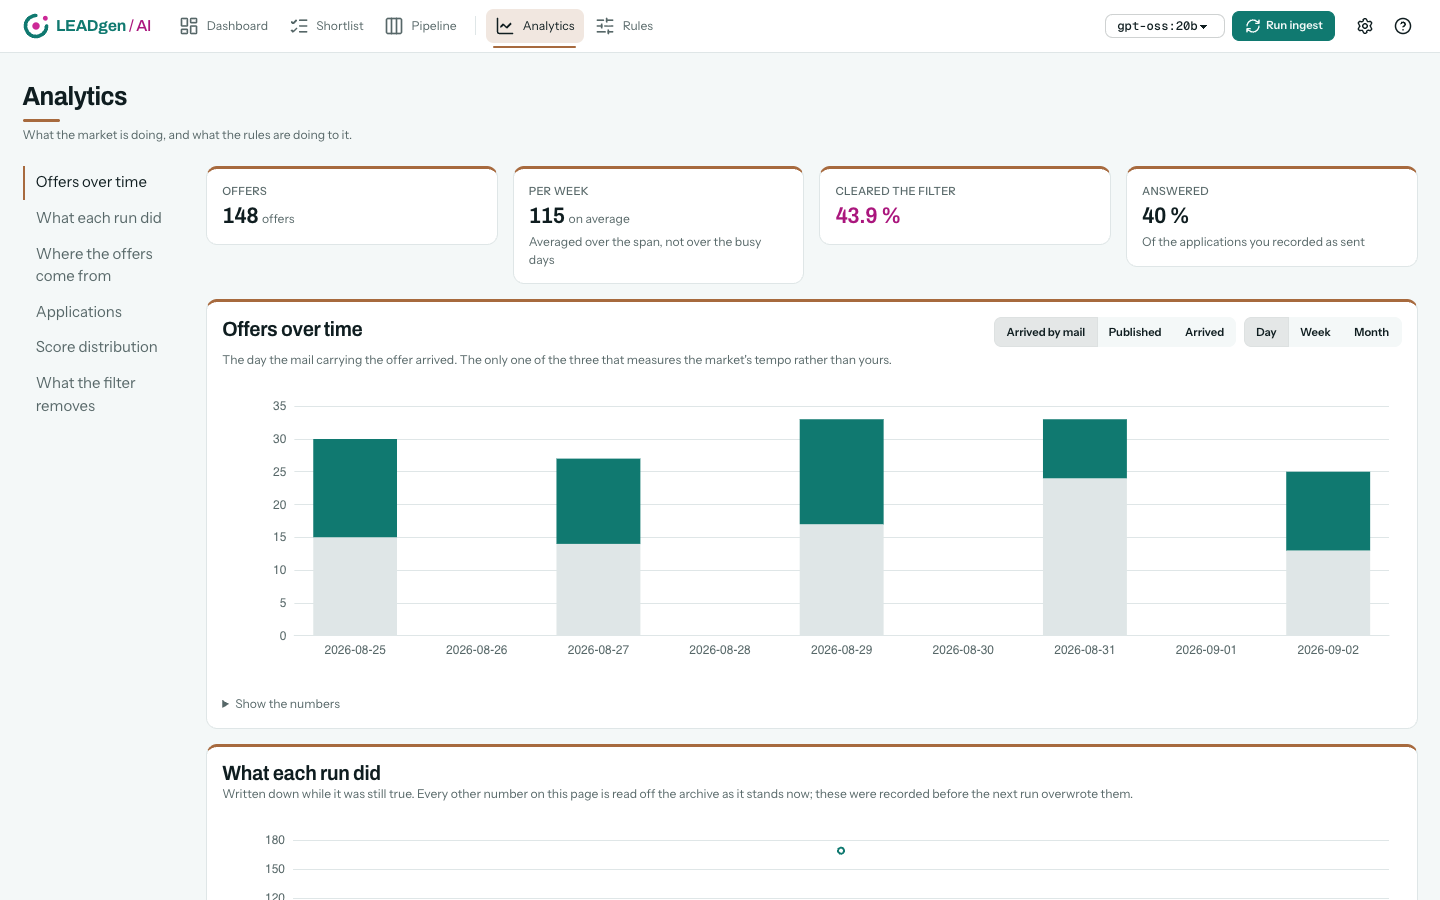
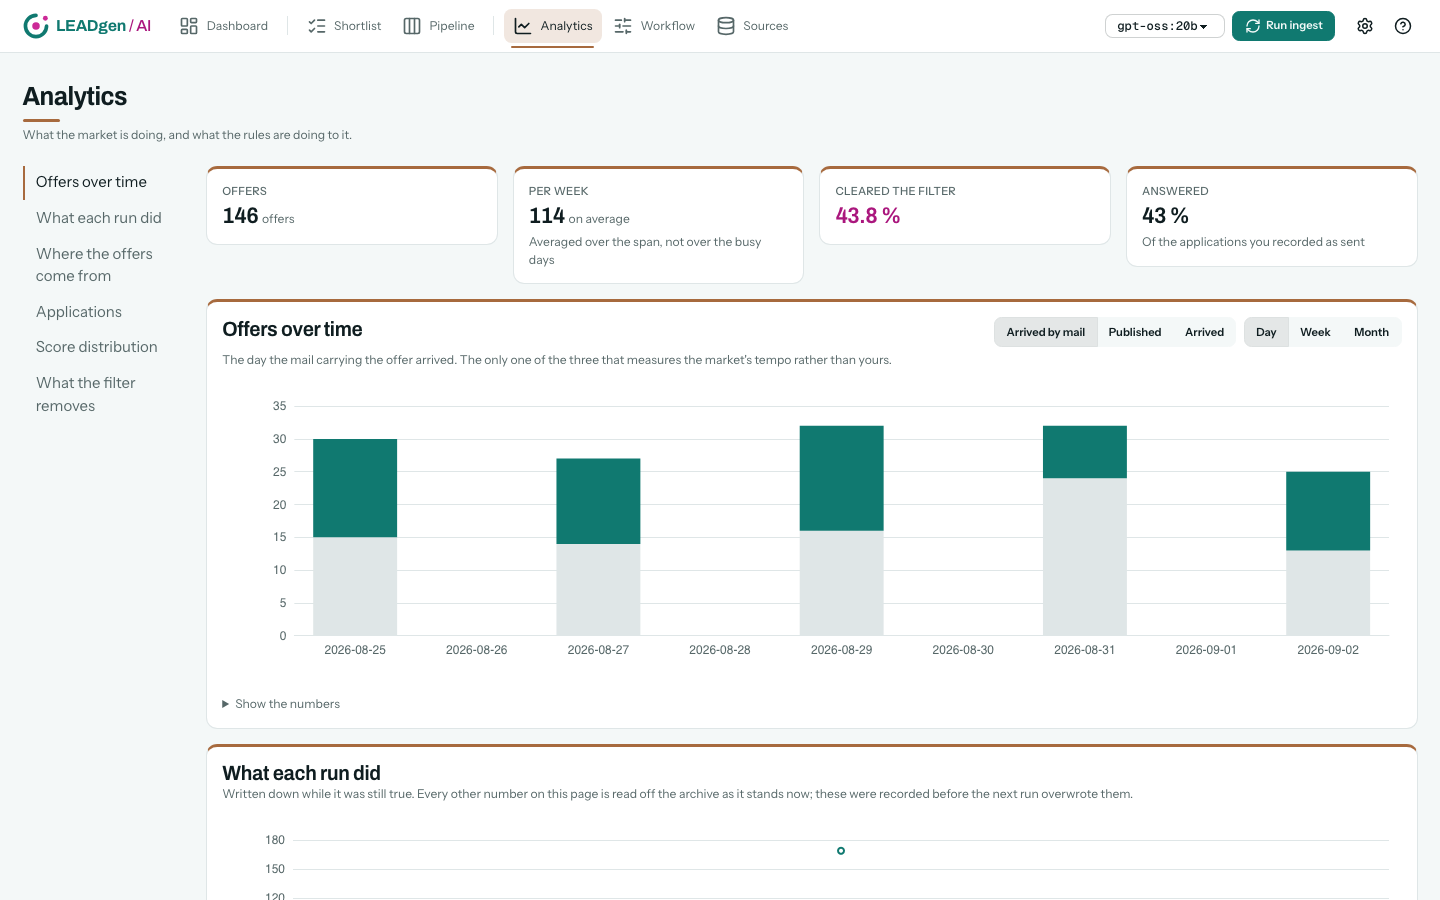
Retake the README screenshots from the current design
The eight images under docs/screenshots still showed the screens before the renovation:
"Rules" in the navigation, the rule list instead of the workflow graph, the old dashboard.
They are retaken from the English demo stack at 1440x900, and `bun run docs:shots` now does
that in one command, refusing any instance whose sources are not the demo's, the same guard
the help shots use. The README row for that screen is called Workflow, as the navigation is.

diff --git a/frontend/tools/capture-docs-shots.ts b/frontend/tools/capture-docs-shots.ts
@@ -1,0 +1,141 @@
+/**
+ * Retakes the screenshots the root README and the guides render, from the English demo stack.
+ *
+ *   bun run docs:shots                                   # every shot, from :14201
+ *   DOCS_SHOTS_URL=http://… bun run docs:shots
+ *   DOCS_SHOTS_ONLY=dashboard-light,rules-dark bun run docs:shots   # just these
+ *
+ * Writes `docs/screenshots/<id>.png` at 1440×900, the size every image there has. The theme is
+ * part of the id and chosen per screen, not per run: the README picks whichever of the two shows a
+ * screen best (docs/README.md).
+ *
+ * **Only ever against the demo stack, and the English one.** A screenshot is published with the
+ * repository, so this reads the instance's configured sources first and stops unless they are
+ * exactly the demo's. English because the README is English: German adverts under English labels
+ * read as a broken translation, which is why the help shots take English from :14201 too. Start it
+ * as `capture-help-shots.ts` describes.
+ */
+import {resolve} from 'node:path';
+import {chromium, type Page} from 'playwright';
+
+const BASE = process.env['DOCS_SHOTS_URL'] ?? 'http://127.0.0.1:14201';
+const OUT = resolve(import.meta.dir, '../../docs/screenshots');
+const VIEWPORT = {width: 1440, height: 900};
+const ONLY = (process.env['DOCS_SHOTS_ONLY'] ?? '').split(',').map((id) => id.trim()).filter((id) => id !== '');
+
+/** What the demo's `sources.yaml` declares, and all it declares. */
+const DEMO_SOURCES = ['demo-newsletter', 'manual-inbox'];
+
+interface Shot {
+    readonly theme: 'light' | 'dark';
+    /** The path to open, given the offer the shortlist puts first. */
+    readonly route: (top: number) => string;
+    /** What has to be on screen before the picture is taken, beyond the route. */
+    readonly prepare?: (page: Page) => Promise<void>;
+}
+
+/**
+ * Scrolls the element to the top of whatever pane scrolls it, clear of the sticky header: without
+ * the margin its own heading lands under the header and the picture starts mid-sentence.
+ */
+async function scrollTo(page: Page, selector: string): Promise<void> {
+    const target = page.locator(selector).first();
+    await target.waitFor();
+    await target.evaluate((element) => {
+        (element as HTMLElement).style.scrollMarginTop = '96px';
+        element.scrollIntoView({block: 'start'});
+    });
+}
+
+const SHOTS: Record<string, Shot> = {
+    'dashboard-light': {theme: 'light', route: () => '/dashboard'},
+    'shortlist-light': {theme: 'light', route: (top) => `/shortlist/${top}`},
+    // The same screen further down its reading column: the status control and the package.
+    'offer-detail-light': {
+        theme: 'light',
+        route: (top) => `/shortlist/${top}`,
+        prepare: (page) => scrollTo(page, 'section:has(> lg-application-panel)'),
+    },
+    'pipeline-light': {theme: 'light', route: () => '/pipeline'},
+    'analytics-light': {theme: 'light', route: () => '/analytics'},
+    'sources-dark': {theme: 'dark', route: () => '/sources/demo-newsletter'},
+    // A reader's own path: one step out while the sheet is closed, then the stage. At zoom 1 beside
+    // the sheet the graph shows three columns cut at the left edge; zoomed out first, the canvas
+    // pans the picked stage clear of the sheet itself, as it does for anyone.
+    'rules-dark': {
+        theme: 'dark',
+        route: () => '/workflow',
+        prepare: async (page) => {
+            await page.locator('[data-action="zoom-out"]').first().click();
+            await page.waitForTimeout(400);
+            await page.locator('lg-flow-node a[data-stage="SCORE"]').first().click();
+            await page.locator('lg-stage-sheet').first().waitFor();
+            await page.waitForTimeout(800);
+        },
+    },
+    // The help drawer at its how-it-works chapter, over the screen it was opened from.
+    'help-light': {
+        theme: 'light',
+        route: () => '/workflow',
+        prepare: async (page) => {
+            await page.locator('.help-button').first().click();
+            const chapter = page.locator('[data-chapter="how-it-works"]').first();
+            if (!(await chapter.isVisible())) {
+                await page.getByRole('button', {name: /all chapters/i}).first().click();
+            }
+            await chapter.click();
+        },
+    },
+};
+
+/** Stops unless the instance is the demo: its sources, and nothing else. */
+async function refuseAnythingButTheDemo(page: Page): Promise<void> {
+    const response = await page.request.get(`${BASE}/api/v1/sources`);
+    const body = (await response.json()) as {id: string}[] | {sources: {id: string}[]};
+    const ids = (Array.isArray(body) ? body : body.sources).map((source) => source.id).sort();
+    if (ids.join(',') !== [...DEMO_SOURCES].sort().join(',')) {
+        throw new Error(`${BASE} is not the demo stack: it declares ${ids.join(', ')}`);
+    }
+}
+
+/** The offer the shortlist puts first, which the two offer shots open. */
+async function topOffer(page: Page): Promise<number> {
+    const response = await page.request.get(`${BASE}/api/v1/offers?limit=1`);
+    const body = (await response.json()) as {entries: {offer: {id: number}}[]};
+    const first = body.entries[0];
+    if (first === undefined) throw new Error('the demo shortlist is empty; run an ingest first');
+    return first.offer.id;
+}
+
+async function main(): Promise<void> {
+    const browser = await chromium.launch();
+    try {
+        const probe = await browser.newPage();
+        await refuseAnythingButTheDemo(probe);
+        const top = await topOffer(probe);
+        await probe.close();
+
+        for (const [id, shot] of Object.entries(SHOTS)) {
+            if (ONLY.length > 0 && !ONLY.includes(id)) continue;
+            const context = await browser.newContext({viewport: VIEWPORT, deviceScaleFactor: 1, reducedMotion: 'reduce'});
+            await context.addInitScript((mode) => {
+                localStorage.setItem('lg-language', 'en');
+                localStorage.setItem('lg-theme', mode);
+            }, shot.theme);
+            const page = await context.newPage();
+            await page.goto(`${BASE}${shot.route(top)}`, {waitUntil: 'networkidle'});
+            await shot.prepare?.(page);
+            // Fonts, and the last layout pass after the data arrived.
+            await page.evaluate(() => document.fonts.ready);
+            await page.waitForTimeout(600);
+            const file = resolve(OUT, `${id}.png`);
+            await page.screenshot({path: file, animations: 'disabled'});
+            console.log(`wrote ${file}`);
+            await context.close();
+        }
+    } finally {
+        await browser.close();
+    }
+}
+
+await main();

diff --git a/README.md b/README.md
@@ -147,7 +147,7 @@ API), and a toast offers to reload once a deploy has landed.
 | ![Pipeline board](docs/screenshots/pipeline-light.png)   | **Pipeline** — the half of the loop the tool cannot see. Nothing is sent from here, so everything here is recorded by hand.                                                                                                                                                                                                                                                                                                                                                                                                    |
 | ![Analytics](docs/screenshots/analytics-light.png)       | **Analytics** — what the market is doing, and what the rules are doing to it.                                                                                                                                                                                                                                                                                                                                                                                                                                                  |
 | ![Sources](docs/screenshots/sources-dark.png)            | **Sources** — the configuration rather than the database, so a source that has never run still shows up. Opening one shows the block of `sources.yaml` that defines it, secrets masked, beside every run it has had and when its numbers last moved.                                                                                                                                                                                                                                                                           |
-| ![Rules](docs/screenshots/rules-dark.png)                | **Rules** — the run as a workflow, from ingest to digest: each stage with the last run's count, what it costs, and a marker where a model takes part. Picking a stage shows every key that decides it, the knockouts, the weights and the thresholds behind every number on the shortlist, and the prompt as this configuration actually renders it.                                                                                                                                                                             |
+| ![Workflow](docs/screenshots/rules-dark.png)             | **Workflow** — the run as a workflow, from ingest to digest: each stage with the last run's count, what it costs, and a marker where a model takes part. Picking a stage shows every key that decides it, the knockouts, the weights and the thresholds behind every number on the shortlist, and the prompt as this configuration actually renders it.                                                                                                                                                                             |
 | ![Help](docs/screenshots/help-light.png)                 | **Help** — a drawer from the header that opens at the chapter of the screen it was opened from, with a how-it-works chapter and its diagrams for the reader who wants to know what happens between a mail and a package.                                                                                                                                                                                                                                                                                                      |
 
 ## Configuration

diff --git a/docs/README.md b/docs/README.md
@@ -124,7 +124,8 @@ prints its agreement with the stored answers beside an empty-answer baseline; th
 [decisions/pipeline-scoring.md](decisions/pipeline-scoring.md#measuring-a-candidate).
 
 `screenshots/` holds what the root README renders; the light and dark ones are chosen per
-screen there, not by theme.
+screen there, not by theme. `bun run docs:shots` in `frontend/` retakes all of them from the English
+demo stack, and refuses any instance whose sources are not the demo's.
 
 ## Conventions in the guides
 
